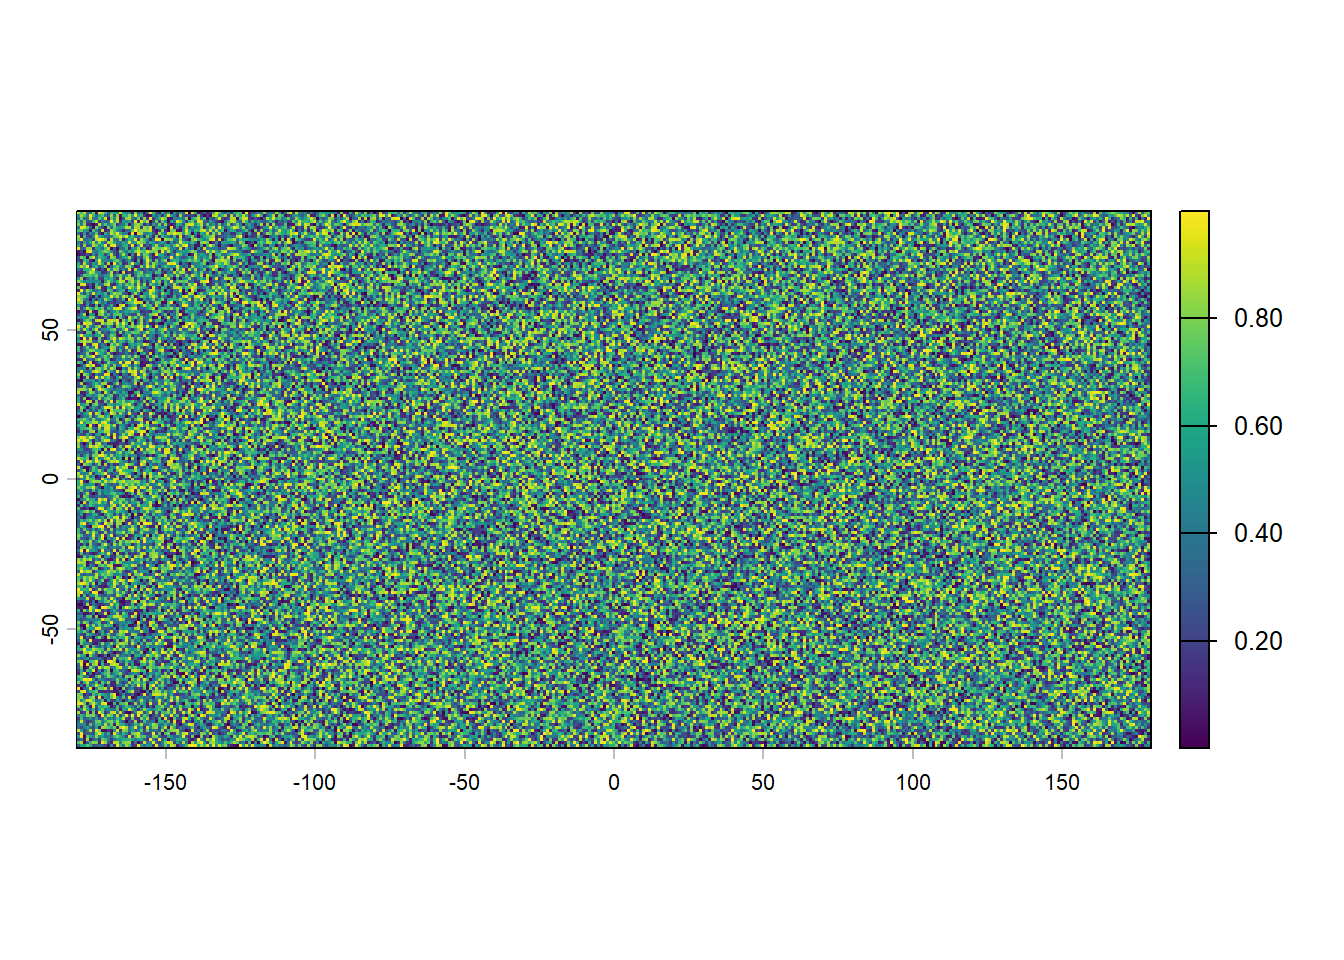
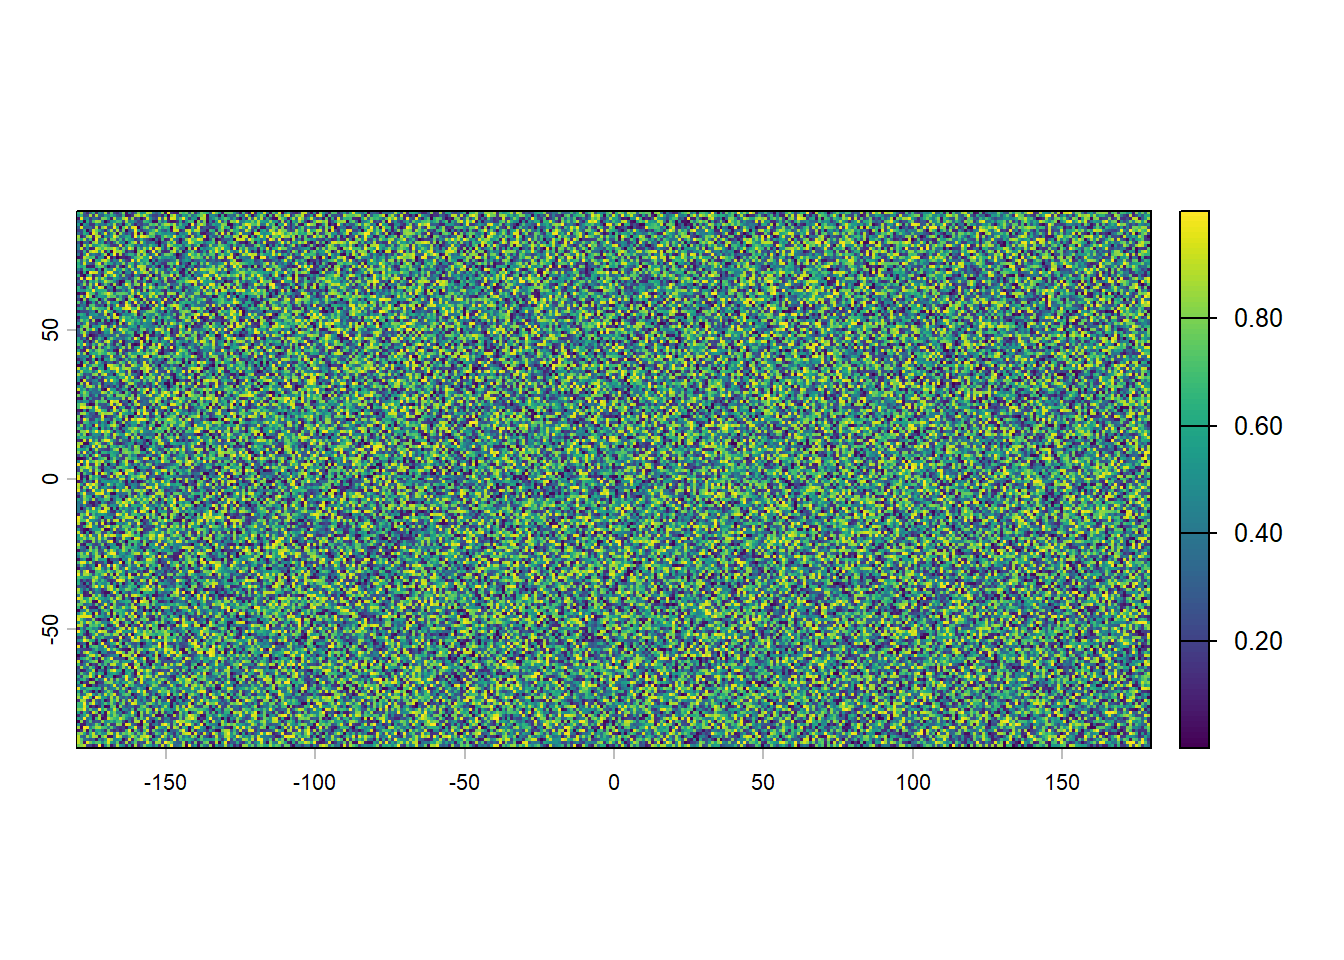
updated leaflet for index.qmd, removed .rmarkdown file from notes/04

diff --git a/docs/index.html b/docs/index.html
@@ -158,6 +158,34 @@ ul.task-list li input[type="checkbox"] {
   })
   </script>
 <style>html{ scroll-behavior: smooth; }</style>
+<link href="site_libs/htmltools-fill-0.5.8.1/fill.css" rel="stylesheet">
+
+<script src="site_libs/htmlwidgets-1.6.4/htmlwidgets.js"></script>
+
+<script src="site_libs/jquery-3.6.0/jquery-3.6.0.min.js"></script>
+
+<link href="site_libs/leaflet-1.3.1/leaflet.css" rel="stylesheet">
+
+<script src="site_libs/leaflet-1.3.1/leaflet.js"></script>
+
+<link href="site_libs/leafletfix-1.0.0/leafletfix.css" rel="stylesheet">
+
+<script src="site_libs/proj4-2.6.2/proj4.min.js"></script>
+
+<script src="site_libs/Proj4Leaflet-1.0.1/proj4leaflet.js"></script>
+
+<link href="site_libs/rstudio_leaflet-1.3.1/rstudio_leaflet.css" rel="stylesheet">
+
+<script src="site_libs/leaflet-binding-2.2.3/leaflet.js"></script>
+
+<script src="site_libs/leaflet-providers-2.0.0/leaflet-providers_2.0.0.js"></script>
+
+<script src="site_libs/leaflet-providers-plugin-2.2.3/leaflet-providers-plugin.js"></script>
+
+<link href="site_libs/leaflet-awesomemarkers-2.0.3/leaflet.awesome-markers.css" rel="stylesheet">
+
+<script src="site_libs/leaflet-awesomemarkers-2.0.3/leaflet.awesome-markers.min.js"></script>
+
 
   <script src="https://cdnjs.cloudflare.com/polyfill/v3/polyfill.min.js?features=es6"></script>
   <script src="https://cdn.jsdelivr.net/npm/mathjax@3/es5/tex-chtml-full.js" type="text/javascript"></script>
@@ -449,7 +477,7 @@ window.Quarto = {
   </nav>
 </header>
 <!-- content -->
-<div id="quarto-content" class="quarto-container page-columns page-rows-contents page-layout-full page-navbar">
+<div id="quarto-content" class="quarto-container page-columns page-rows-contents page-layout-article page-navbar">
 <!-- sidebar -->
   <nav id="quarto-sidebar" class="sidebar collapse collapse-horizontal quarto-sidebar-collapse-item sidebar-navigation floating overflow-auto">
     <div class="pt-lg-2 mt-2 text-left sidebar-header">
@@ -842,7 +870,7 @@ window.Quarto = {
 </nav>
     </div>
 <!-- main -->
-<main class="content page-columns page-full column-body" id="quarto-document-content">
+<main class="content page-columns page-full" id="quarto-document-content">
 
 
 <header id="title-block-header" class="quarto-title-block default">
@@ -852,7 +880,7 @@ window.Quarto = {
 
 
 
-<div class="quarto-title-meta column-body">
+<div class="quarto-title-meta">
 
     
   
@@ -864,16 +892,23 @@ window.Quarto = {
 </header>
 
 
-<div class="container-fluid page-columns page-full">
-<div class="cell column-screen">
+<div style="margin-top: 1rem;">
 
 </div>
+<div class="cell page-columns page-full">
+<div class="cell-output-display column-screen">
+<div class="leaflet html-widget html-fill-item" id="htmlwidget-1fe1954b30c330170f4a" style="width:100%;height:464px;"></div>
+<script type="application/json" data-for="htmlwidget-1fe1954b30c330170f4a">{"x":{"options":{"crs":{"crsClass":"L.CRS.EPSG3857","code":null,"proj4def":null,"projectedBounds":null,"options":{}},"scrollWheelZoom":false,"dragging":true,"zoomControl":true},"calls":[{"method":"addProviderTiles","args":["Esri.WorldImagery",null,null,{"errorTileUrl":"","noWrap":false,"detectRetina":false}]},{"method":"addAwesomeMarkers","args":[[41.39166833001435,41.37457084420845,41.39282735410894,41.38980378265128,41.39527181015824,41.41433064061803,41.36646172935615],[2.18067788772154,2.148127712979362,2.164885040868497,2.19029526674802,2.161859480305378,2.152009156926655,2.156869506835981],{"icon":"book","markerColor":"blue","iconColor":"white","spin":false,"squareMarker":false,"iconRotate":0,"font":"monospace","prefix":"glyphicon"},null,null,{"interactive":true,"draggable":false,"keyboard":true,"title":"","alt":"","zIndexOffset":0,"opacity":1,"riseOnHover":false,"riseOffset":250},["<a href='notes/01/'>Notes 01: Intro to Vector Data (Arc de Triomf)<\/a>","<a href='notes/02/'>Notes 02: Spatial Transformations (Plaça Espanya)<\/a>","<a href='notes/03/'>Notes 03: Vector Operations (Casa Batlló)<\/a>","<a href='notes/04/'>Notes 04: Intro to Raster Data (BSE/UPF)<\/a>","<a href='notes/05/'>Notes 05: Raster-Vector Operations (La Pedrera)<\/a>","<a href='notes/06/'>Notes 06: Intro to Leaflet (Park Güell)<\/a>","<a href='notes/07/'>Notes 07: Spatial Modeling (Montjuïc)<\/a>"],null,null,null,null,{"interactive":false,"permanent":false,"direction":"auto","opacity":1,"offset":[0,0],"textsize":"10px","textOnly":false,"className":"","sticky":true},null]},{"method":"addAwesomeMarkers","args":[[41.38381178710688,41.38096037274585,41.38804946017183],[2.176215302073746,2.122798337976861,2.161872166390495],{"icon":"pencil","markerColor":"red","iconColor":"white","spin":false,"squareMarker":false,"iconRotate":0,"font":"monospace","prefix":"glyphicon"},null,null,{"interactive":true,"draggable":false,"keyboard":true,"title":"","alt":"","zIndexOffset":0,"opacity":1,"riseOnHover":false,"riseOffset":250},["<a href='problem_sets/01ps/'>PS 01: Vietnam Roads (Catedral)<\/a>","<a href='problem_sets/02ps/'>PS 02: Population & African Markets (Camp Nou)<\/a>","<a href='problem_sets/03ps/'>PS 03: Droughts & Transportation (DeLa Crem)<\/a>"],null,null,null,null,{"interactive":false,"permanent":false,"direction":"auto","opacity":1,"offset":[0,0],"textsize":"10px","textOnly":false,"className":"","sticky":true},null]},{"method":"addAwesomeMarkers","args":[41.40359511782242,2.174210367769537,{"icon":"star","markerColor":"green","iconColor":"white","spin":false,"squareMarker":false,"iconRotate":0,"font":"monospace","prefix":"glyphicon"},null,null,{"interactive":true,"draggable":false,"keyboard":true,"title":"","alt":"","zIndexOffset":0,"opacity":1,"riseOnHover":false,"riseOffset":250},"<a href='projects/project01/'>Project 01: US-MX Migration (La Sagrada Familia)<\/a>",null,null,null,null,{"interactive":false,"permanent":false,"direction":"auto","opacity":1,"offset":[0,0],"textsize":"10px","textOnly":false,"className":"","sticky":true},null]}],"setView":[[41.39,2.17],13,[]],"limits":{"lat":[41.36646172935615,41.41433064061803],"lng":[2.122798337976861,2.19029526674802]}},"evals":[],"jsHooks":[]}</script>
+</div>
+</div>
+<div style="margin-top: 3rem;">
+
 </div>
 <section id="class-notes" class="level2">
 <h2 class="anchored" data-anchor-id="class-notes">Class Notes</h2>
 <div id="listing-class-notes" class="quarto-listing quarto-listing-container-grid">
 <div class="list grid quarto-listing-cols-3">
-<div class="g-col-1" data-index="0" data-listing-date-sort="1736895600000" data-listing-file-modified-sort="1770986808911" data-listing-date-modified-sort="NaN" data-listing-reading-time-sort="9" data-listing-word-count-sort="1697">
+<div class="g-col-1" data-index="0" data-listing-date-sort="1736895600000" data-listing-file-modified-sort="1773967767086" data-listing-date-modified-sort="NaN" data-listing-reading-time-sort="9" data-listing-word-count-sort="1697">
 <a href="./notes/01/01.html" class="quarto-grid-link">
 <div class="quarto-grid-item card h-100 card-left">
 <p class="card-img-top">
@@ -889,7 +924,7 @@ Class 01: Intro to Vector Data &amp; sf Library
 </div>
 </div></a>
 </div>
-<div class="g-col-1" data-index="1" data-listing-date-sort="1768950000000" data-listing-file-modified-sort="1773791131217" data-listing-date-modified-sort="NaN" data-listing-reading-time-sort="1" data-listing-word-count-sort="2">
+<div class="g-col-1" data-index="1" data-listing-date-sort="1768950000000" data-listing-file-modified-sort="1773967767144" data-listing-date-modified-sort="NaN" data-listing-reading-time-sort="1" data-listing-word-count-sort="2">
 <a href="./notes/02/02.html" class="quarto-grid-link">
 <div class="quarto-grid-item card h-100 card-left">
 <p class="card-img-top">
@@ -905,7 +940,7 @@ Class 02: Spatial Data Manipulation &amp; Transformations
 </div>
 </div></a>
 </div>
-<div class="g-col-1" data-index="2" data-listing-date-sort="1738018800000" data-listing-file-modified-sort="1770986808915" data-listing-date-modified-sort="NaN" data-listing-reading-time-sort="24" data-listing-word-count-sort="4647">
+<div class="g-col-1" data-index="2" data-listing-date-sort="1738018800000" data-listing-file-modified-sort="1773967767168" data-listing-date-modified-sort="NaN" data-listing-reading-time-sort="24" data-listing-word-count-sort="4647">
 <a href="./notes/03/03.html" class="quarto-grid-link">
 <div class="quarto-grid-item card h-100 card-left">
 <p class="card-img-top">
@@ -921,7 +956,7 @@ Class 03: Geometry Operations
 </div>
 </div></a>
 </div>
-<div class="g-col-1" data-index="3" data-listing-date-sort="1738710000000" data-listing-file-modified-sort="1772702658317" data-listing-date-modified-sort="NaN" data-listing-reading-time-sort="11" data-listing-word-count-sort="2120">
+<div class="g-col-1" data-index="3" data-listing-date-sort="1738710000000" data-listing-file-modified-sort="1773967767205" data-listing-date-modified-sort="NaN" data-listing-reading-time-sort="11" data-listing-word-count-sort="2120">
 <a href="./notes/04/raster_intro.html" class="quarto-grid-link">
 <div class="quarto-grid-item card h-100 card-left">
 <p class="card-img-top">
@@ -937,17 +972,65 @@ Class 04: Intro to Raster Data
 </div>
 </div></a>
 </div>
-<div class="g-col-1" data-index="4" data-listing-date-sort="1770764400000" data-listing-file-modified-sort="1773957670630" data-listing-date-modified-sort="NaN" data-listing-reading-time-sort="22" data-listing-word-count-sort="4208">
+<div class="g-col-1" data-index="4" data-listing-date-sort="1738710000000" data-listing-file-modified-sort="1774121921108" data-listing-date-modified-sort="NaN" data-listing-reading-time-sort="11" data-listing-word-count-sort="2120">
+<a href="./notes/04/raster_intro.html" class="quarto-grid-link">
+<div class="quarto-grid-item card h-100 card-left">
+<p class="card-img-top">
+<img loading="lazy" src="./images/raster-intro.png" class="thumbnail-image card-img" style="height: 150px;">
+</p>
+<div class="card-body post-contents">
+<h5 class="no-anchor card-title listing-title">
+Class 04: Intro to Raster Data
+</h5>
+<div class="listing-reading-time card-text text-muted">11 min</div>
+<div class="card-text listing-description delink">
+</div>
+</div>
+</div></a>
+</div>
+<div class="g-col-1" data-index="5" data-listing-date-sort="1770764400000" data-listing-file-modified-sort="1773971822942" data-listing-date-modified-sort="NaN" data-listing-reading-time-sort="22" data-listing-word-count-sort="4208">
 <a href="./notes/05/raster_vector_ops.html" class="quarto-grid-link">
 <div class="quarto-grid-item card h-100 card-left">
 <p class="card-img-top">
-<img loading="lazy" src="./images/raster_vec_ops.png" class="thumbnail-image card-img" style="height: 150px;">
+<img loading="lazy" src="./images/raster_vect_ops.png" class="thumbnail-image card-img" style="height: 150px;">
 </p>
 <div class="card-body post-contents">
 <h5 class="no-anchor card-title listing-title">
 Class 05: Raster-Vector Operations
 </h5>
 <div class="listing-reading-time card-text text-muted">22 min</div>
+<div class="card-text listing-description delink">
+</div>
+</div>
+</div></a>
+</div>
+<div class="g-col-1" data-index="6" data-listing-date-sort="1772578800000" data-listing-file-modified-sort="1773967767360" data-listing-date-modified-sort="NaN" data-listing-reading-time-sort="7" data-listing-word-count-sort="1211">
+<a href="./notes/07/spatial_modeling.html" class="quarto-grid-link">
+<div class="quarto-grid-item card h-100 card-left">
+<p class="card-img-top">
+<img loading="lazy" src="./images/market_access_spatial.png" class="thumbnail-image card-img" style="height: 150px;">
+</p>
+<div class="card-body post-contents">
+<h5 class="no-anchor card-title listing-title">
+Class 07: Spatial Modeling
+</h5>
+<div class="listing-reading-time card-text text-muted">7 min</div>
+<div class="card-text listing-description delink">
+</div>
+</div>
+</div></a>
+</div>
+<div class="g-col-1" data-index="7" data-listing-date-sort="1771455600000" data-listing-file-modified-sort="1773969342864" data-listing-date-modified-sort="NaN" data-listing-reading-time-sort="10" data-listing-word-count-sort="1821">
+<a href="./notes/06/leaflet07.html" class="quarto-grid-link">
+<div class="quarto-grid-item card h-100 card-left">
+<p class="card-img-top">
+<img loading="lazy" src="./images/leaflet_map.png" class="thumbnail-image card-img" style="height: 150px;">
+</p>
+<div class="card-body post-contents">
+<h5 class="no-anchor card-title listing-title">
+Lecture 07: Leaflet
+</h5>
+<div class="listing-reading-time card-text text-muted">10 min</div>
 <div class="card-text listing-description delink">
 </div>
 </div>
@@ -961,11 +1044,11 @@ Class 05: Raster-Vector Operations
 <h2 class="anchored" data-anchor-id="problem-sets">Problem Sets</h2>
 <div id="listing-problem-sets" class="quarto-listing quarto-listing-container-grid">
 <div class="list grid quarto-listing-cols-3">
-<div class="g-col-1" data-index="0" data-listing-date-sort="1771974000000" data-listing-file-modified-sort="1773958200063" data-listing-date-modified-sort="NaN" data-listing-reading-time-sort="14" data-listing-word-count-sort="2695">
+<div class="g-col-1" data-index="0" data-listing-date-sort="1771974000000" data-listing-file-modified-sort="1773973069743" data-listing-date-modified-sort="NaN" data-listing-reading-time-sort="14" data-listing-word-count-sort="2699">
 <a href="./problem_sets/03ps/ps03.html" class="quarto-grid-link">
 <div class="quarto-grid-item card h-100 card-left">
 <p class="card-img-top">
-<img loading="lazy" src="./problem_sets/03ps/distributions.png" class="thumbnail-image card-img" style="height: 150px;">
+<img loading="lazy" src="./images/distributions.png" class="thumbnail-image card-img" style="height: 150px;">
 </p>
 <div class="card-body post-contents">
 <h5 class="no-anchor card-title listing-title">
@@ -978,7 +1061,7 @@ Problem Set 3: Droughts &amp; Transportation
 </div>
 </div></a>
 </div>
-<div class="g-col-1" data-index="1" data-listing-date-sort="1769986800000" data-listing-file-modified-sort="1770986814712" data-listing-date-modified-sort="NaN" data-listing-reading-time-sort="33" data-listing-word-count-sort="6517">
+<div class="g-col-1" data-index="1" data-listing-date-sort="1769986800000" data-listing-file-modified-sort="1773967767439" data-listing-date-modified-sort="NaN" data-listing-reading-time-sort="33" data-listing-word-count-sort="6517">
 <a href="./problem_sets/02ps/02ps_final.html" class="quarto-grid-link">
 <div class="quarto-grid-item card h-100 card-left">
 <p class="card-img-top">
@@ -995,7 +1078,7 @@ Problem Set 2: Population &amp; Marketplaces
 </div>
 </div></a>
 </div>
-<div class="g-col-1" data-index="2" data-listing-date-sort="1769036400000" data-listing-file-modified-sort="1769520873665" data-listing-date-modified-sort="NaN" data-listing-reading-time-sort="14" data-listing-word-count-sort="2740">
+<div class="g-col-1" data-index="2" data-listing-date-sort="1769036400000" data-listing-file-modified-sort="1773967767399" data-listing-date-modified-sort="NaN" data-listing-reading-time-sort="14" data-listing-word-count-sort="2740">
 <a href="./problem_sets/01ps/01ps.html" class="quarto-grid-link">
 <div class="quarto-grid-item card h-100 card-left">
 <p class="card-img-top">
